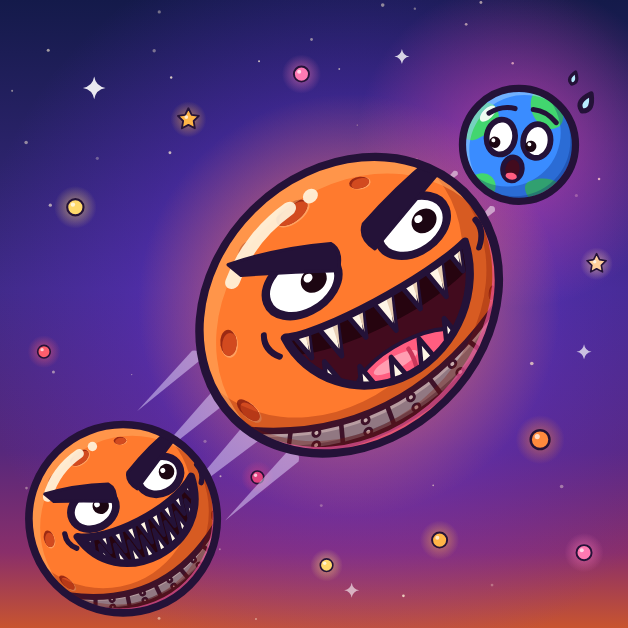
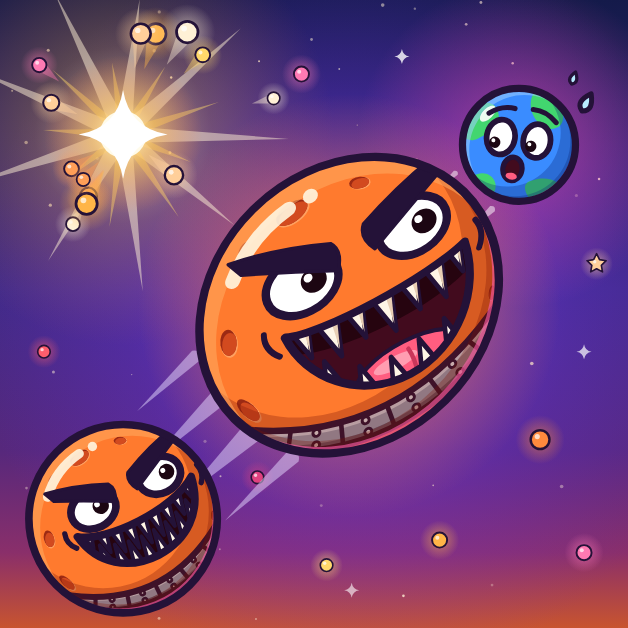
A thumbnail da Poki passa a ser a do salto (a escolhida), agora com uma supernova estourando no canto vazio da diagonal e iluminando a cena, com os pedaços voando sem cair em cima de nenhum rosto; a supernova virou uma função só, e a opção B continua idêntica
Claude-Session: https://claude.ai/code/session_019jrkRh2Y7GTUSUkdVxnzdp

Changed region(s): [[0.0, 0.0, 0.4841, 0.4538]]

diff --git a/docs/spec/portais.md b/docs/spec/portais.md
@@ -180,7 +180,7 @@ cenário do menu, que foi exatamente o que a recusa do Web Fit Test apontou. Sob
 *Game thumbnail*** (antes de pedir o WFT) e pode ser trocada a qualquer momento em desenvolvimento, menos
 com um WFT rodando. Suba o `thumb-1256.png` (o JPG é a reserva, se o formulário recusar o tamanho). São quatro
 cenas em `brand/poki/opcoes/` — perseguição, supernova, o salto e close —, e a que vira `thumb-*` é a de
-`POKI_THUMB=<id>` (padrão `a-perseguicao`).
+`POKI_THUMB=<id>` (padrão `c-salto`, a escolhida: o salto da etapa 2 com uma supernova estourando no canto).
 
 ## CrazyGames: conta e sala (o "Full")
 
